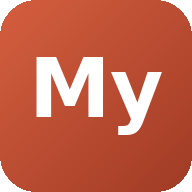
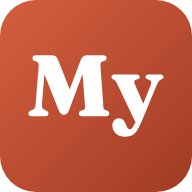
Le foto già viste restano sul telefono, le icone dell'app hanno il carattere del marchio, e Sentry non riceve più indirizzi interi
- Il service worker conserva anche le foto dei prodotti che arrivano da
  Supabase senza crossorigin: la seconda volta arrivano subito, anche
  senza rete.
- Le icone PNG (schermata Home, iPhone, maskable) sono rigenerate dall'SVG
  del marchio: il «My» è in Fraunces su ogni telefono.
- Nel browser le misure di velocità verso Sentry passano dalla stessa
  pulizia degli errori, e senza consenso non partono.

Schede: 673, 830, 102

Claude-Session: https://claude.ai/code/session_015BmpnWJUPDMhdcKnwMFmgT

diff --git a/lib/analytics/sentry-config.ts b/lib/analytics/sentry-config.ts
@@ -25,7 +25,10 @@ export function opzioniSentry() {
   const analyticsOk = typeof window !== 'undefined' && hasConsent('analytics');
   return {
     dsn: SENTRY_DSN,
-    tracesSampleRate: 0.1,
+    // S10 (5/11/2026) — Le misure di velocità partivano dal 10% delle pagine
+    // anche senza consenso, con l'indirizzo intero. Adesso solo col consenso
+    // statistico, e passano dalla stessa pulizia degli errori.
+    tracesSampleRate: analyticsOk ? 0.1 : 0,
     replaysSessionSampleRate: analyticsOk ? 0.05 : 0,
     replaysOnErrorSampleRate: analyticsOk ? 1.0 : 0,
     // R187 — `NODE_ENV` su Vercel dice `production` anche per le anteprime.
@@ -39,53 +42,65 @@ export function opzioniSentry() {
       'AbortError',
       'NetworkError when attempting to fetch resource',
     ],
+    beforeSendTransaction(event: any): any {
+      return ripulisciEvento(event);
+    },
     beforeSend(event: any): any {
-      // 🟡-11: scrub difensivo di PII — cookie, header (Authorization), body e
-      // identità utente (teniamo solo l'id per correlare, mai email/ip).
-      if (event.request) {
-        delete event.request.cookies;
-        delete event.request.headers;
-        delete event.request.data;
-        /**
-         * 27/8/2026 (R161) — L'INDIRIZZO DELLA PAGINA USCIVA INTERO.
-         *
-         * Questa pulizia cancellava cookie, intestazioni e corpo, e lasciava
-         * `request.url`. Ma l'errore che si vuole di più è proprio quello che
-         * scoppia mentre qualcuno cerca, e l'indirizzo di quella pagina è
-         * `/search?q=…`: cioè il testo che la persona aveva appena scritto,
-         * allegato all'errore e mandato fuori. Stessa cosa per
-         * `query_string`, che è la stessa informazione nel campo accanto.
-         */
-        if (typeof event.request.url === 'string') {
-          const pulito = indirizzoSenzaDatiPersonali(event.request.url);
-          if (pulito) event.request.url = pulito;
-          else delete event.request.url;
-        }
-        delete event.request.query_string;
-      }
-      /**
-       * 27/8/2026 (R161) — Le briciole raccontano da quale pagina a quale
-       * pagina si è passati: sono indirizzi anche loro, e portavano dentro la
-       * stessa ricerca.
-       */
-      if (Array.isArray(event.breadcrumbs)) {
-        for (const briciola of event.breadcrumbs) {
-          const dati = briciola?.data;
-          if (!dati || typeof dati !== 'object') continue;
-          for (const campo of ['url', 'from', 'to'] as const) {
-            if (typeof dati[campo] !== 'string') continue;
-            const pulito = indirizzoSenzaDatiPersonali(dati[campo]);
-            if (pulito) dati[campo] = pulito;
-            else delete dati[campo];
-          }
-        }
-      }
-      if (event.user) {
-        delete event.user.email;
-        delete event.user.ip_address;
-        delete event.user.username;
-      }
-      return event;
+      return ripulisciEvento(event);
     },
   };
+}
+
+/**
+ * La pulizia dei dati personali, una sola per errori e misure (S10, 5/11/2026):
+ * prima valeva solo per gli errori (beforeSend), e le misure di velocità
+ * mandavano l'indirizzo intero della pagina.
+ */
+export function ripulisciEvento(event: any): any {
+  // 🟡-11: scrub difensivo di PII — cookie, header (Authorization), body e
+  // identità utente (teniamo solo l'id per correlare, mai email/ip).
+  if (event.request) {
+    delete event.request.cookies;
+    delete event.request.headers;
+    delete event.request.data;
+    /**
+     * 27/8/2026 (R161) — L'INDIRIZZO DELLA PAGINA USCIVA INTERO.
+     *
+     * Questa pulizia cancellava cookie, intestazioni e corpo, e lasciava
+     * `request.url`. Ma l'errore che si vuole di più è proprio quello che
+     * scoppia mentre qualcuno cerca, e l'indirizzo di quella pagina è
+     * `/search?q=…`: cioè il testo che la persona aveva appena scritto,
+     * allegato all'errore e mandato fuori. Stessa cosa per
+     * `query_string`, che è la stessa informazione nel campo accanto.
+     */
+    if (typeof event.request.url === 'string') {
+      const pulito = indirizzoSenzaDatiPersonali(event.request.url);
+      if (pulito) event.request.url = pulito;
+      else delete event.request.url;
+    }
+    delete event.request.query_string;
+  }
+  /**
+   * 27/8/2026 (R161) — Le briciole raccontano da quale pagina a quale
+   * pagina si è passati: sono indirizzi anche loro, e portavano dentro la
+   * stessa ricerca.
+   */
+  if (Array.isArray(event.breadcrumbs)) {
+    for (const briciola of event.breadcrumbs) {
+      const dati = briciola?.data;
+      if (!dati || typeof dati !== 'object') continue;
+      for (const campo of ['url', 'from', 'to'] as const) {
+        if (typeof dati[campo] !== 'string') continue;
+        const pulito = indirizzoSenzaDatiPersonali(dati[campo]);
+        if (pulito) dati[campo] = pulito;
+        else delete dati[campo];
+      }
+    }
+  }
+  if (event.user) {
+    delete event.user.email;
+    delete event.user.ip_address;
+    delete event.user.username;
+  }
+  return event;
 }

diff --git a/tests/unit/minori-s10-service-worker.test.ts b/tests/unit/minori-s10-service-worker.test.ts
@@ -1,0 +1,63 @@
+import { describe, it, expect } from 'vitest';
+import { readFileSync } from 'node:fs';
+import { join } from 'node:path';
+import vm from 'node:vm';
+
+/**
+ * S10 (5/11/2026, scheda 673) — il service worker conserva anche le foto di
+ * Supabase che arrivano «opache» (img senza crossorigin): la seconda volta,
+ * anche senza rete, la foto arriva dalla memoria del telefono.
+ */
+const SORGENTE = readFileSync(join(process.cwd(), 'public', 'sw.js'), 'utf8');
+
+function avvia() {
+  const ascoltatori: Record<string, (e: unknown) => void> = {};
+  const magazzino = new Map<string, Map<string, unknown>>();
+  const stato = { reteViva: true };
+  const apri = async (nome: string) => {
+    if (!magazzino.has(nome)) magazzino.set(nome, new Map());
+    const m = magazzino.get(nome)!;
+    return {
+      match: async (req: { url: string }) => m.get(req.url),
+      put: async (req: { url: string }, res: unknown) => void m.set(req.url, res),
+      keys: async () => [...m.keys()].map((url) => ({ url })),
+      delete: async (req: { url: string }) => m.delete(req.url),
+    };
+  };
+  const opaca = () => ({ ok: false, status: 0, type: 'opaque', headers: new Headers(), clone() { return opaca(); } });
+  const contesto: Record<string, unknown> = {
+    caches: { open: apri, keys: async () => [...magazzino.keys()], delete: async (n: string) => magazzino.delete(n), match: async () => undefined },
+    Response, Headers, URL, console,
+    fetch: async () => {
+      if (!stato.reteViva) throw new TypeError('Failed to fetch');
+      return opaca();
+    },
+    self: {
+      location: { origin: 'https://mycity.it' },
+      addEventListener: (tipo: string, fn: (e: unknown) => void) => void (ascoltatori[tipo] = fn),
+      skipWaiting: () => {},
+      clients: { claim: () => {}, matchAll: async () => [], openWindow: async () => {} },
+      registration: { showNotification: async () => {} },
+    },
+  };
+  vm.createContext(contesto);
+  vm.runInContext(SORGENTE, contesto);
+  const chiediFoto = async (url: string) => {
+    let promessa: unknown;
+    ascoltatori.fetch?.({ request: { method: 'GET', mode: 'no-cors', url }, respondWith: (p: unknown) => void (promessa = p) });
+    return (await promessa) as { type?: string } | undefined;
+  };
+  return { chiediFoto, stato, magazzino };
+}
+
+describe('le foto opache di Supabase restano nel telefono (673)', () => {
+  it('vista una volta, senza rete arriva dalla memoria', async () => {
+    const sw = avvia();
+    const foto = 'https://abcdefgh.supabase.co/storage/v1/object/public/products/pane.jpg';
+    await sw.chiediFoto(foto);
+    await new Promise((r) => setTimeout(r, 5));
+    sw.stato.reteViva = false;
+    const seconda = await sw.chiediFoto(foto);
+    expect(seconda?.type).toBe('opaque');
+  });
+});

diff --git a/public/sw.js b/public/sw.js
@@ -97,7 +97,7 @@ async function trimCache(cacheName, maxEntries) {
 }
 
 // Stale-while-revalidate per immagini: serve subito da cache, aggiorna in background.
-async function staleWhileRevalidate(req, cacheName, maxEntries, freschezzaMs = 0) {
+async function staleWhileRevalidate(req, cacheName, maxEntries, freschezzaMs = 0, accettaOpache = false) {
   const cache = await caches.open(cacheName);
   const cached = await cache.match(req);
 
@@ -119,6 +119,16 @@ async function staleWhileRevalidate(req, cacheName, maxEntries, freschezzaMs = 0
       // lo stesso. Prima l'errore restava senza padrone; adesso e' raccolto.
       conMarcaTemporale(res)
         .then((copia) => cache.put(req, copia))
+        .then(() => trimCache(cacheName, maxEntries))
+        .catch(() => {});
+    } else if (accettaOpache && res.type === 'opaque') {
+      // S10 (5/11/2026) — Le foto di Supabase arrivano da un <img> senza
+      // crossorigin: la risposta e' «opaca» (ok=false, stato 0) e prima non se
+      // ne salvava nessuna. Si salvano cosi' come sono: senza marca temporale
+      // (una risposta opaca non si legge), quindi si ricontrollano in
+      // sottofondo, ma la foto gia' vista arriva subito e anche senza rete.
+      cache
+        .put(req, res.clone())
         .then(() => trimCache(cacheName, maxEntries))
         .catch(() => {});
     }
@@ -254,7 +264,7 @@ self.addEventListener('fetch', (event) => {
   // 2. Immagini Supabase storage → stale-while-revalidate
   if (url.hostname.endsWith('.supabase.co') && url.pathname.startsWith('/storage/')) {
     event.respondWith(
-      staleWhileRevalidate(req, IMAGE_CACHE, MAX_IMAGE_ENTRIES, FRESCHEZZA_IMMAGINI_MS),
+      staleWhileRevalidate(req, IMAGE_CACHE, MAX_IMAGE_ENTRIES, FRESCHEZZA_IMMAGINI_MS, true),
     );
     return;
   }

diff --git a/tests/unit/minori-s10-icone.test.ts b/tests/unit/minori-s10-icone.test.ts
@@ -1,0 +1,33 @@
+import { describe, it, expect } from 'vitest';
+import { readFileSync } from 'node:fs';
+import { createHash } from 'node:crypto';
+
+/**
+ * S10 (5/11/2026, scheda 830) — le icone PNG (Home del telefono, iPhone,
+ * maskable) sono rigenerate dall'SVG del marchio, coi tracciati di Fraunces:
+ * non più il «My» in un carattere di sistema. Prova leggera: misure, canale
+ * alfa giusto e che non siano più i file di prima.
+ */
+const VECCHIE: Record<string, string> = {
+  'public/icon-512.png': '22348',
+  'public/icon-192.png': '6041',
+  'public/apple-touch-icon.png': '4689',
+  'public/icon-maskable-512.png': '17325',
+};
+function testaPng(f: string) {
+  const b = readFileSync(f);
+  return { lato: b.readUInt32BE(16), alto: b.readUInt32BE(20), tipoColore: b[25], peso: String(b.length), hash: createHash('sha1').update(b).digest('hex') };
+}
+
+describe('le icone PNG vengono dal marchio (830)', () => {
+  it('misure e trasparenza giuste', () => {
+    expect(testaPng('public/icon-512.png')).toMatchObject({ lato: 512, alto: 512, tipoColore: 6 });
+    expect(testaPng('public/icon-192.png')).toMatchObject({ lato: 192, alto: 192, tipoColore: 6 });
+    // iPhone e maskable: piene, senza trasparenza (gli angoli li taglia il sistema).
+    expect(testaPng('public/apple-touch-icon.png')).toMatchObject({ lato: 180, alto: 180, tipoColore: 2 });
+    expect(testaPng('public/icon-maskable-512.png')).toMatchObject({ lato: 512, alto: 512, tipoColore: 2 });
+  });
+  it('non sono più i file col carattere di sistema', () => {
+    for (const [f, peso] of Object.entries(VECCHIE)) expect(testaPng(f).peso, f).not.toBe(peso);
+  });
+});

diff --git a/tests/unit/minori-s10-sentry.test.ts b/tests/unit/minori-s10-sentry.test.ts
@@ -1,0 +1,21 @@
+import { describe, it, expect } from 'vitest';
+import { opzioniSentry } from '@/lib/analytics/sentry-config';
+
+/**
+ * S10 (5/11/2026, scheda 102) — nel browser anche le misure di velocità
+ * passano dalla pulizia dei dati personali, e senza consenso non partono.
+ */
+describe('le misure verso Sentry sono ripulite (102)', () => {
+  it('beforeSendTransaction toglie la ricerca dall\'indirizzo e i dati dell\'utente', () => {
+    const o = opzioniSentry() as unknown as { beforeSendTransaction: (e: unknown) => Record<string, any> };
+    const e = o.beforeSendTransaction({
+      request: { url: 'https://mycity.test/search?q=mario.rossi%40gmail.com', headers: { cookie: 'x' } },
+      user: { id: 'u-1', email: 'mario@x.it', ip_address: '1.2.3.4' },
+    });
+    expect(JSON.stringify(e)).not.toMatch(/mario\.rossi|gmail|cookie|mario@x\.it|1\.2\.3\.4/);
+    expect(e.user.id).toBe('u-1');
+  });
+  it('senza consenso (fuori dal browser) niente misure di velocità', () => {
+    expect((opzioniSentry() as { tracesSampleRate: number }).tracesSampleRate).toBe(0);
+  });
+});
